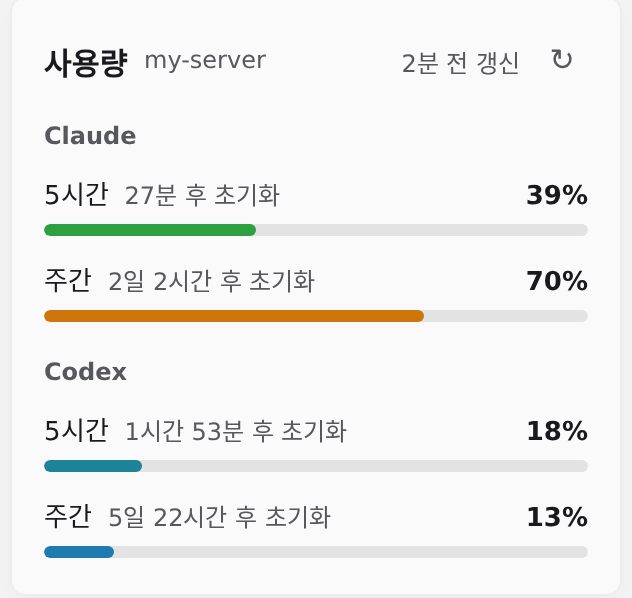
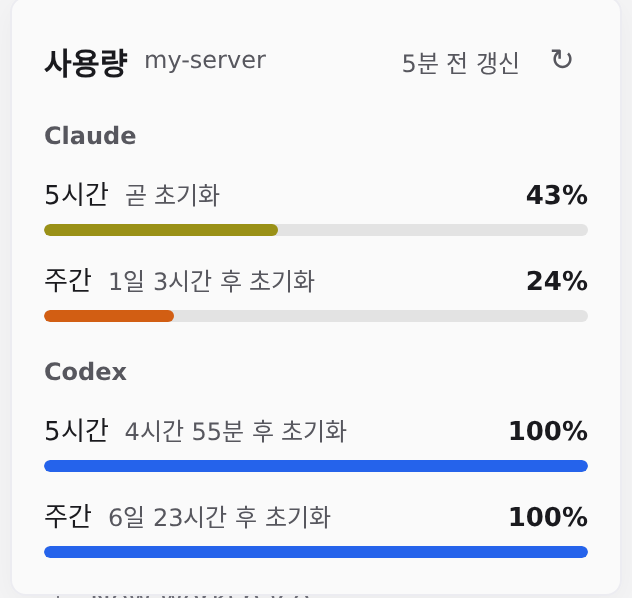
Show remaining share of each limit instead of usage
Bars now fill with what is left, like a battery, and the numbers show
remainingPct (or 100 - usedPct when it is missing). Colors still run
blue to red as the remaining share shrinks. Screen-reader labels say
"남음" so the meaning is not lost without the visible word.

diff --git a/client/usage-graphs.tsx b/client/usage-graphs.tsx
@@ -76,9 +76,16 @@ function stateOf(provider: ProviderUsage | undefined, query: UsageQuery): Accoun
   return hasMainWindows(provider) ? "ok" : "no_windows";
 }
 
-function percentOf(usageWindow?: UsageWindow) {
-  const value = usageWindow?.usedPct;
+function clampPct(value: number | null | undefined) {
   return typeof value === "number" && Number.isFinite(value) ? Math.max(0, Math.min(100, value)) : null;
+}
+
+/** Share of the limit still left; derived from usedPct when the provider omits remainingPct. */
+function remainingOf(usageWindow?: UsageWindow) {
+  const remaining = clampPct(usageWindow?.remainingPct);
+  if (remaining !== null) return remaining;
+  const used = clampPct(usageWindow?.usedPct);
+  return used === null ? null : 100 - used;
 }
 
 function formatPercent(percent: number | null) {
@@ -115,7 +122,7 @@ function secondaryText(theme: Theme) {
   return mix(theme.colors.foregroundMuted, theme.colors.foreground, 0.3);
 }
 
-/** Blue → green → yellow → red as usage climbs, blended between stops. */
+/** Blue → green → yellow → red as usage climbs (i.e. as what is left shrinks), blended between stops. */
 function usageColor(theme: Theme, percent: number | null) {
   const colors = SCALE[isDark(theme) ? "dark" : "light"];
   const value = percent ?? 0;
@@ -125,12 +132,13 @@ function usageColor(theme: Theme, percent: number | null) {
   return mix(colors[i], colors[i + 1], t);
 }
 
-function Bar({ percent, theme, height }: { percent: number | null; theme: Theme; height: number }) {
+/** Fills with what is left, like a battery. */
+function Bar({ remaining, theme, height }: { remaining: number | null; theme: Theme; height: number }) {
   return (
     <View style={{ flex: 1, height, borderRadius: height / 2, overflow: "hidden" }}>
       <View style={{ position: "absolute", top: 0, right: 0, bottom: 0, left: 0, backgroundColor: theme.colors.foreground, opacity: 0.1 }} />
-      {percent !== null && percent > 0 && (
-        <View style={{ width: `${percent}%`, minWidth: height, height: "100%", borderRadius: height / 2, backgroundColor: usageColor(theme, percent) }} />
+      {remaining !== null && remaining > 0 && (
+        <View style={{ width: `${remaining}%`, minWidth: height, height: "100%", borderRadius: height / 2, backgroundColor: usageColor(theme, 100 - remaining) }} />
       )}
     </View>
   );
@@ -159,13 +167,13 @@ function formatAgo(at: string | null | undefined, now: number) {
 }
 
 function Cell({ label, usageWindow, theme }: { label: string; usageWindow?: UsageWindow; theme: Theme }) {
-  const percent = percentOf(usageWindow);
+  const remaining = remainingOf(usageWindow);
   return (
     <View style={{ flex: 1, minWidth: 0, flexDirection: "row", alignItems: "center", gap: 6 }}>
       <Text style={{ fontSize: 11, color: secondaryText(theme) }}>{label}</Text>
-      <Bar percent={percent} theme={theme} height={4} />
-      <Text style={{ minWidth: 28, textAlign: "right", fontSize: 12, fontWeight: "500", color: theme.colors.foreground, fontVariant: ["tabular-nums"] }}>
-        {formatPercent(percent)}
+      <Bar remaining={remaining} theme={theme} height={4} />
+      <Text numberOfLines={1} style={{ width: 40, textAlign: "right", fontSize: 12, fontWeight: "500", color: theme.colors.foreground, fontVariant: ["tabular-nums"] }}>
+        {formatPercent(remaining)}
       </Text>
     </View>
   );
@@ -189,22 +197,22 @@ function Row({ name, provider, state, theme }: { name: string; provider?: Provid
 }
 
 function DetailRow({ label, usageWindow, theme, now }: { label: string; usageWindow?: UsageWindow; theme: Theme; now: number }) {
-  const percent = percentOf(usageWindow);
+  const remaining = remainingOf(usageWindow);
   const reset = formatReset(usageWindow?.resetsAt, now);
-  const rounded = percent === null ? undefined : Math.round(percent);
+  const rounded = remaining === null ? undefined : Math.round(remaining);
   return (
     <View style={{ gap: 6 }}>
       <View style={{ flexDirection: "row", alignItems: "baseline", gap: 8 }}>
         <Text style={{ fontSize: 13, color: theme.colors.foreground }}>{label}</Text>
         <Text numberOfLines={1} style={{ flex: 1, fontSize: 12, color: secondaryText(theme) }}>{reset ?? ""}</Text>
-        <Text style={{ fontSize: 13, fontWeight: "600", color: theme.colors.foreground, fontVariant: ["tabular-nums"] }}>{formatPercent(percent)}</Text>
+        <Text style={{ fontSize: 13, fontWeight: "600", color: theme.colors.foreground, fontVariant: ["tabular-nums"] }}>{formatPercent(remaining)}</Text>
       </View>
-      <View accessibilityRole="progressbar" accessibilityLabel={label}
+      <View accessibilityRole="progressbar" accessibilityLabel={`${label} 남은 양`}
         accessibilityValue={rounded === undefined ? { text: "조회되지 않음" } : { min: 0, max: 100, now: rounded }}
         aria-valuemin={0} aria-valuemax={100} aria-valuenow={rounded}
-        aria-valuetext={rounded === undefined ? "조회되지 않음" : `${rounded}%`}
+        aria-valuetext={rounded === undefined ? "조회되지 않음" : `${rounded}% 남음`}
         style={{ flexDirection: "row" }}>
-        <Bar percent={percent} theme={theme} height={6} />
+        <Bar remaining={remaining} theme={theme} height={6} />
       </View>
     </View>
   );
@@ -383,7 +391,7 @@ export function UsageGraphs({ theme, host, layout, openPopover }: PluginSidebarI
   const summary = rows.map(({ name, provider, state }) => {
     if (state !== "ok") return `${name} ${state === "loading" ? "불러오는 중" : STATE_SHORT[state]}`;
     const { fiveHour, weekly } = windowsOf(provider);
-    return `${name} 5시간 ${formatPercent(percentOf(fiveHour))}, 주간 ${formatPercent(percentOf(weekly))}`;
+    return `${name} 5시간 ${formatPercent(remainingOf(fiveHour))} 남음, 주간 ${formatPercent(remainingOf(weekly))} 남음`;
   }).join(". ");
   return (
     <View style={{ width: "100%", paddingHorizontal: layout.compact ? 4 : 6, paddingVertical: 4 }}>

diff --git a/README.md b/README.md
@@ -9,8 +9,8 @@
 
 ## 기능
 
-- **한눈에 보는 사용량** — 서비스마다 한 줄에 `5h`(5시간)와 `1w`(주간) 사용률을 함께 표시합니다.
-- **사용량에 따른 색** — 막대 색이 사용률에 따라 🔵 파랑 → 🟢 초록 → 🟡 노랑 → 🔴 빨강으로 자연스럽게 바뀝니다. 다크·라이트 테마마다 잘 보이는 색조를 씁니다.
+- **한눈에 보는 남은 양** — 서비스마다 한 줄에 `5h`(5시간)와 `1w`(주간) 한도 중 **남은 비율**을 표시합니다. 막대는 배터리처럼 쓸수록 줄어듭니다.
+- **남은 양에 따른 색** — 많이 남았을 때 🔵 파랑에서 🟢 초록 → 🟡 노랑 → 🔴 빨강 순으로, 줄어들수록 자연스럽게 바뀝니다. 다크·라이트 테마마다 잘 보이는 색조를 씁니다.
 - **상세 팝오버** — 위젯을 누르면 초기화까지 남은 시간과 새로고침 버튼이 있는 상세 화면이 열립니다. 새로고침 중에는 아이콘이 돌고, 끝나면 "✓ 확인 완료"가 잠깐 표시됩니다.
 - **자동 갱신** — 1분마다 다시 조회합니다. 수치는 Paseo 서버의 사용량 캐시(기본 5분)를 따르므로 조금 늦게 반영될 수 있고, 팝오버에 마지막 갱신 시각이 표시됩니다.
 - **상태 안내** — 조회 실패, 공급자 오류, 사용 불가(로그인·요금제), 표시할 구간 없음을 구분해서 보여줍니다. 갱신에 실패하면 이전 값임을 표시하고 다시 시도할 수 있습니다.

diff --git a/OVERVIEW.md b/OVERVIEW.md
@@ -1,4 +1,4 @@
-Claude와 Codex의 5시간(5h)·주간(1w) 사용량을 사이드바 하단에 서비스당 한 줄씩 짧은 막대로 표시합니다. 막대 색은 사용량에 따라 파랑 → 초록 → 노랑 → 빨강으로 바뀌며, 밝은·어두운 테마에 맞는 색조를 씁니다. 누르면 초기화까지 남은 시간이 포함된 상세 정보를 팝오버로 보여줍니다.
+Claude와 Codex의 5시간(5h)·주간(1w) 한도 중 남은 비율을 사이드바 하단에 서비스당 한 줄씩 짧은 막대로 표시합니다. 막대는 쓸수록 줄어들고, 색은 남은 양에 따라 파랑 → 초록 → 노랑 → 빨강으로 바뀌며 밝은·어두운 테마에 맞는 색조를 씁니다. 누르면 초기화까지 남은 시간이 포함된 상세 정보를 팝오버로 보여줍니다.
 
 선택한 호스트의 기존 Paseo 사용량 조회 기능을 사용합니다. 화면에서 1분마다 다시 조회하며 Paseo의 기본 캐시 주기를 따릅니다. 로그인이나 연결 문제로 값을 읽지 못하면 수치를 0으로 표시하지 않고 조회 상태를 표시합니다.
 
